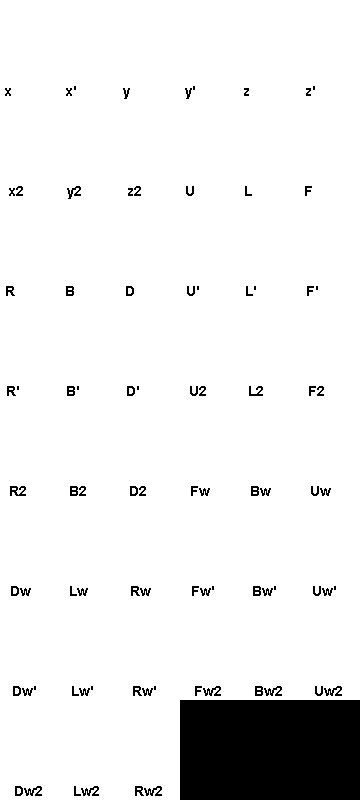
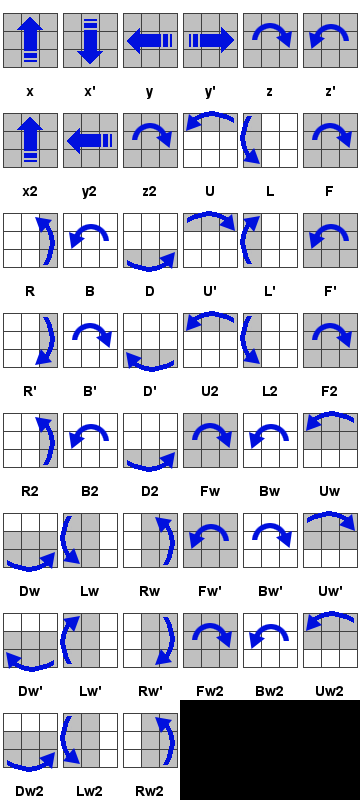
added arrows to sprites

diff --git a/src/main/java/dev/aisandbox/client/scenarios/twisty/puzzles/CubePuzzle.java b/src/main/java/dev/aisandbox/client/scenarios/twisty/puzzles/CubePuzzle.java
@@ -9,7 +9,9 @@ import java.awt.Font;
 import java.awt.FontMetrics;
 import java.awt.Graphics2D;
 import java.awt.Polygon;
+import java.awt.RenderingHints;
 import java.awt.image.BufferedImage;
+import java.io.IOException;
 import java.util.ArrayList;
 import java.util.Collections;
 import java.util.HashMap;
@@ -355,9 +357,27 @@ public abstract class CubePuzzle implements TwistyPuzzle {
             MOVE_SPRITESHEET_WIDTH * MOVE_ICON_WIDTH,
             MOVE_ICON_HEIGHT * (int) Math.ceil(num * 1.0 / MOVE_SPRITESHEET_WIDTH),
             BufferedImage.TYPE_INT_RGB);
+    // work out how big to draw the cube
+    int cubeBoxSize = (MOVE_ICON_WIDTH - 4) / size;
+    int cubeMarginX = (MOVE_ICON_WIDTH - size * cubeBoxSize) / 2;
+    int cubeMarginY = (MOVE_ICON_HEIGHT - 20 - size * cubeBoxSize) / 2;
+    // load the background arrows
+    List<BufferedImage> arrows = null;
+    try {
+      arrows =
+          SpriteLoader.loadSpritesFromResources(
+              "/dev/aisandbox/client/scenarios/twisty/arrows.png",
+              MOVE_ICON_WIDTH,
+              MOVE_ICON_HEIGHT);
+    } catch (IOException e) {
+      log.error("Error loading arrows", e);
+    }
+
     Graphics2D g = sheet.createGraphics();
     Font font = new Font(Font.SANS_SERIF, Font.BOLD, 14);
     g.setFont(font);
+    g.setRenderingHint(
+        RenderingHints.KEY_TEXT_ANTIALIASING, RenderingHints.VALUE_TEXT_ANTIALIAS_GASP);
     // Get the FontMetrics
     FontMetrics metrics = g.getFontMetrics(font);
     for (int i = 0; i < moveList.size(); i++) {
@@ -367,13 +387,128 @@ public abstract class CubePuzzle implements TwistyPuzzle {
       g.setColor(Color.white);
       g.fillRect(x, y, MOVE_ICON_WIDTH, MOVE_ICON_HEIGHT);
       // Determine the X coordinate for the text
-      int dx = (metrics.stringWidth(move)) / 2;
+      int dx = (MOVE_ICON_WIDTH - metrics.stringWidth(move)) / 2;
       // Set the font
       g.setColor(Color.BLACK);
       // Draw the String
       g.drawString(move, x + dx, y + MOVE_ICON_HEIGHT - 4);
+      // cube background
+      g.setColor(Color.LIGHT_GRAY);
+      if (move.matches(".*F.*")) {
+        g.fillRect(x + cubeMarginX, y + cubeMarginY, size * cubeBoxSize, size * cubeBoxSize);
+      }
+      if (move.matches(".*U.*")) {
+        int levels = parseLevels(move);
+        g.fillRect(x + cubeMarginX, y + cubeMarginY, size * cubeBoxSize, levels * cubeBoxSize);
+      }
+      if (move.matches(".*R.*")) {
+        int levels = parseLevels(move);
+        g.fillRect(
+            x + cubeMarginX + (size - levels) * cubeBoxSize,
+            y + cubeMarginY,
+            levels * cubeBoxSize,
+            size * cubeBoxSize);
+      }
+      if (move.matches(".*L.*")) {
+        int levels = parseLevels(move);
+        g.fillRect(x + cubeMarginX, y + cubeMarginY, levels * cubeBoxSize, size * cubeBoxSize);
+      }
+      if (move.matches(".*D.*")) {
+        int levels = parseLevels(move);
+        g.fillRect(
+            x + cubeMarginX,
+            y + cubeMarginY + (size - levels) * cubeBoxSize,
+            size * cubeBoxSize,
+            levels * cubeBoxSize);
+      }
+      if (move.startsWith("x") || (move.startsWith("y")) || (move.startsWith("z"))) {
+        g.fillRect(x + cubeMarginX, y + cubeMarginY, size * cubeBoxSize, size * cubeBoxSize);
+      }
+      // draw the cube
+      g.setColor(Color.DARK_GRAY);
+      for (int cx = 0; cx < size; cx++) {
+        for (int cy = 0; cy < size; cy++) {
+          g.drawRect(
+              x + cx * cubeBoxSize + cubeMarginX,
+              y + cy * cubeBoxSize + cubeMarginY,
+              cubeBoxSize,
+              cubeBoxSize);
+        }
+      }
+      // draw arrows
+      String arrow = move.replaceAll("[0-9w]", "");
+      switch (arrow) {
+        case "F":
+          g.drawImage(arrows.get(12), x, y, null);
+          break;
+        case "F'":
+          g.drawImage(arrows.get(13), x, y, null);
+          break;
+        case "B":
+          g.drawImage(arrows.get(13), x, y, null);
+          break;
+        case "B'":
+          g.drawImage(arrows.get(12), x, y, null);
+          break;
+        case "U":
+          g.drawImage(arrows.get(7), x, y, null);
+          break;
+        case "U'":
+          g.drawImage(arrows.get(6), x, y, null);
+          break;
+        case "R":
+          g.drawImage(arrows.get(4), x, y, null);
+          break;
+        case "R'":
+          g.drawImage(arrows.get(5), x, y, null);
+          break;
+        case "L":
+          g.drawImage(arrows.get(9), x, y, null);
+          break;
+        case "L'":
+          g.drawImage(arrows.get(8), x, y, null);
+          break;
+        case "D":
+          g.drawImage(arrows.get(11), x, y, null);
+          break;
+        case "D'":
+          g.drawImage(arrows.get(10), x, y, null);
+          break;
+        case "x":
+          g.drawImage(arrows.get(0), x, y, null);
+          break;
+        case "x'":
+          g.drawImage(arrows.get(1), x, y, null);
+          break;
+        case "y":
+          g.drawImage(arrows.get(3), x, y, null);
+          break;
+        case "y'":
+          g.drawImage(arrows.get(2), x, y, null);
+          break;
+        case "z":
+          g.drawImage(arrows.get(12), x, y, null);
+          break;
+        case "z'":
+          g.drawImage(arrows.get(13), x, y, null);
+          break;
+        default:
+          log.warn("Can't draw arrow for move class '{}'", arrow);
+      }
     }
     return sheet;
+  }
+
+  private static int parseLevels(String move) {
+    int level = 1;
+    if (move.matches(".*w.*")) {
+      level = 2;
+      String num = move.replaceAll("^([0-9]*).*", "$1");
+      if (num.length() > 0) {
+        level = Integer.parseInt(num);
+      }
+    }
+    return level;
   }
 
   @Override

diff --git a/src/main/java/dev/aisandbox/client/scenarios/twisty/puzzles/Cube10x10x10.java b/src/main/java/dev/aisandbox/client/scenarios/twisty/puzzles/Cube10x10x10.java
@@ -1,0 +1,19 @@
+package dev.aisandbox.client.scenarios.twisty.puzzles;
+
+import dev.aisandbox.client.scenarios.twisty.TwistyPuzzle;
+import lombok.extern.slf4j.Slf4j;
+import org.springframework.stereotype.Component;
+
+@Slf4j
+@Component
+public class Cube10x10x10 extends CubePuzzle implements TwistyPuzzle {
+  public Cube10x10x10() {
+    super(10, "/dev/aisandbox/client/scenarios/twisty/cube10.png");
+    log.info("Initialised 10x10x10 puzzle");
+  }
+
+  @Override
+  public String getPuzzleName() {
+    return "Cube 10x10x10 (OBTM)";
+  }
+}
